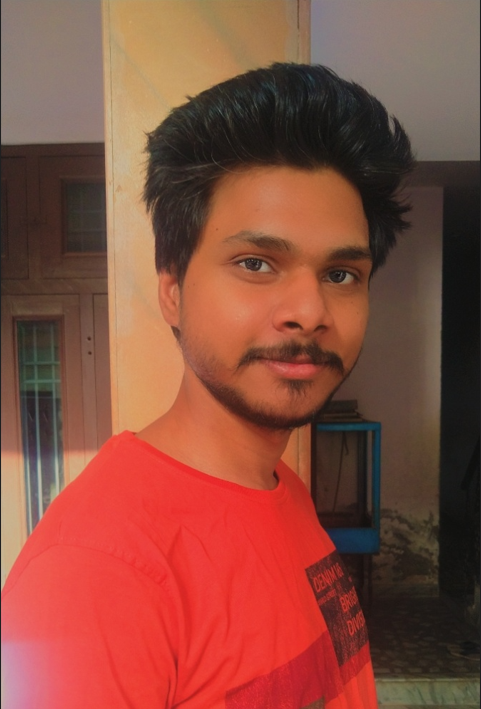
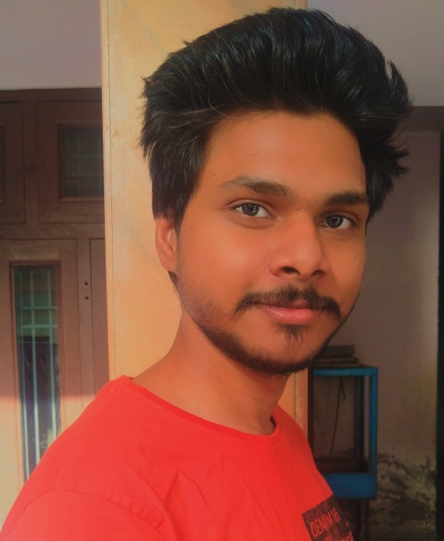
about us page

diff --git a/src/components/AboutUs.jsx b/src/components/AboutUs.jsx
@@ -1,10 +1,12 @@
 import React from 'react'
-import appDesign from '../../assets/appDesign.png'
-import travel from '../../assets/travelempty.jpg'
-import sumukh from '../../assets/sumukh.png'
-import aman from '../../assets/aman.png'
+import appDesign from '../assets/appDesign.png'
+import travel from '../assets/travelempty.jpg'
+import subhendu from '../assets/subhendu.png'
+import sampreeth from '../assets/sampreeth.png'
+import sumukh from '../assets/sumukh.png'
+import aman from '../assets/aman.png'
 
-function Random() {
+function AboutUs() {
     return (
         <div>
             <main>
@@ -243,12 +245,12 @@ function Random() {
                             </div>
                             <div className="w-full md:w-6/12 lg:w-3/12 lg:mb-0 mb-12 px-4">
                                 <div className="px-6">
-                                    {/* <img
+                                    <img
                                         alt="..."
-                                        src={require("assets/img/team-2-800x800.jpg").default}
+                                        src={sampreeth}
                                         className="shadow-lg rounded-full max-w-full mx-auto"
                                         style={{ maxWidth: "120px" }}
-                                    /> */}
+                                    />
                                     <div className="pt-6 text-center">
                                         <h5 className="text-xl font-bold">
                                             Sampreeth H
@@ -261,12 +263,12 @@ function Random() {
                             </div>
                             <div className="w-full md:w-6/12 lg:w-3/12 lg:mb-0 mb-12 px-4">
                                 <div className="px-6">
-                                    {/* <img
+                                    <img
                                         alt="..."
-                                        src={require("assets/img/team-3-800x800.jpg").default}
+                                        src={subhendu}
                                         className="shadow-lg rounded-full max-w-full mx-auto"
                                         style={{ maxWidth: "120px" }}
-                                    /> */}
+                                    />
                                     <div className="pt-6 text-center">
                                         <h5 className="text-xl font-bold">
                                             Shubhendu
@@ -394,4 +396,4 @@ function Random() {
     )
 }
 
-export default Random
+export default AboutUs;

diff --git a/src/components/Navbar.jsx b/src/components/Navbar.jsx
@@ -25,6 +25,7 @@ const Navbar = () => {
       </div>
       <div className='hidden md:flex justify-evenly w-3/4 font-bold text-indigo-800'>
         <Link to="/">Home</Link>
+        <Link to="/about">About Us</Link>
         <Link to="/contact">Contact Us</Link>
         <Link to="/terms">Terms and Conditions</Link>
       </div>
@@ -42,6 +43,7 @@ const Navbar = () => {
       <div onClick={handleNav} className={nav ? 'z-10 absolute text-black left-0 top-0 w-full bg-gray-100/90 px-4 py-7 flex flex-col' : 'absolute left-[-100%]'}>
         <ul>
           <li className='border-b'><Link to="/">Home</Link></li>
+          <li className='border-b'><Link to="/about">About Us</Link></li>
           <li className='border-b'><Link to="/contact">Contact Us</Link></li>
           <li className='border-b'><Link to="/terms">Terms and Conditions</Link></li>
           <div className='flex justify-between my-6'>

diff --git a/src/components/ContactUs/ContactUsForm.jsx b/src/components/ContactUs/ContactUsForm.jsx
@@ -83,6 +83,10 @@ function ContactUsForm() {
                                     <span>Email</span>
                                 </div>
                                 <div className="inputBox">
+                                    <input type="text" name="subject" required="required" />
+                                    <span>Subject</span>
+                                </div>
+                                <div className="inputBox">
                                     <textarea name="message" required="required"></textarea>
                                     <span>Type your Message</span>
                                 </div>

diff --git a/src/App.js b/src/App.js
@@ -1,6 +1,6 @@
 import React from 'react';
 import { BrowserRouter, Routes, Route } from 'react-router-dom';
-import { Navbar, Footer, ContactUsPage, TnC } from './components'
+import { Navbar, Footer, ContactUsPage, TnC, AboutUs } from './components'
 import Home from './Home';
 import './App.css';
 
@@ -13,6 +13,7 @@ function App() {
           <Route path="/" element={<Home />} />
           <Route path="/contact" element={< ContactUsPage />} />
           <Route path="/terms" element={<TnC />} />
+          <Route path="/about" element={<AboutUs />} />
         </Routes>
         <Footer />
       </BrowserRouter>

diff --git a/src/components/index.js b/src/components/index.js
@@ -5,5 +5,6 @@ export { default as Navbar } from './Navbar'
 export { default as Search } from './Search';
 export { default as Selects } from './Selects'
 export { default as Carousel } from './Carousel'
+export { default as AboutUs } from './AboutUs'
 export { default as ContactUsPage } from './ContactUs/ContactUsPage'
 export { default as TnC } from './TermsPage/TnC'

diff --git a/src/components/Footer.jsx b/src/components/Footer.jsx
@@ -15,7 +15,7 @@ const Footer = () => {
         <div className='my-4 sm:border-r-2 border-gray-900'>
           <p className='font-bold'>About TripNThrill</p>
           <ul className=''>
-            <li>About</li>
+            <li><Link to="/about">About Us</Link></li>
             <li>Partnerships</li>
             <li>Careers</li>
             <li>Newsroom</li>

diff --git a/src/components/ContactUs/ContactUsPage.jsx b/src/components/ContactUs/ContactUsPage.jsx
@@ -1,12 +1,9 @@
 import React from 'react'
 import ContactUsForm from './ContactUsForm';
-import Random from './Random';
 
 const ContactUsPage = () => {
     return (
         <div >
-            <ContactUsForm />
-            <Random />
             <ContactUsForm />
         </div>
     )
